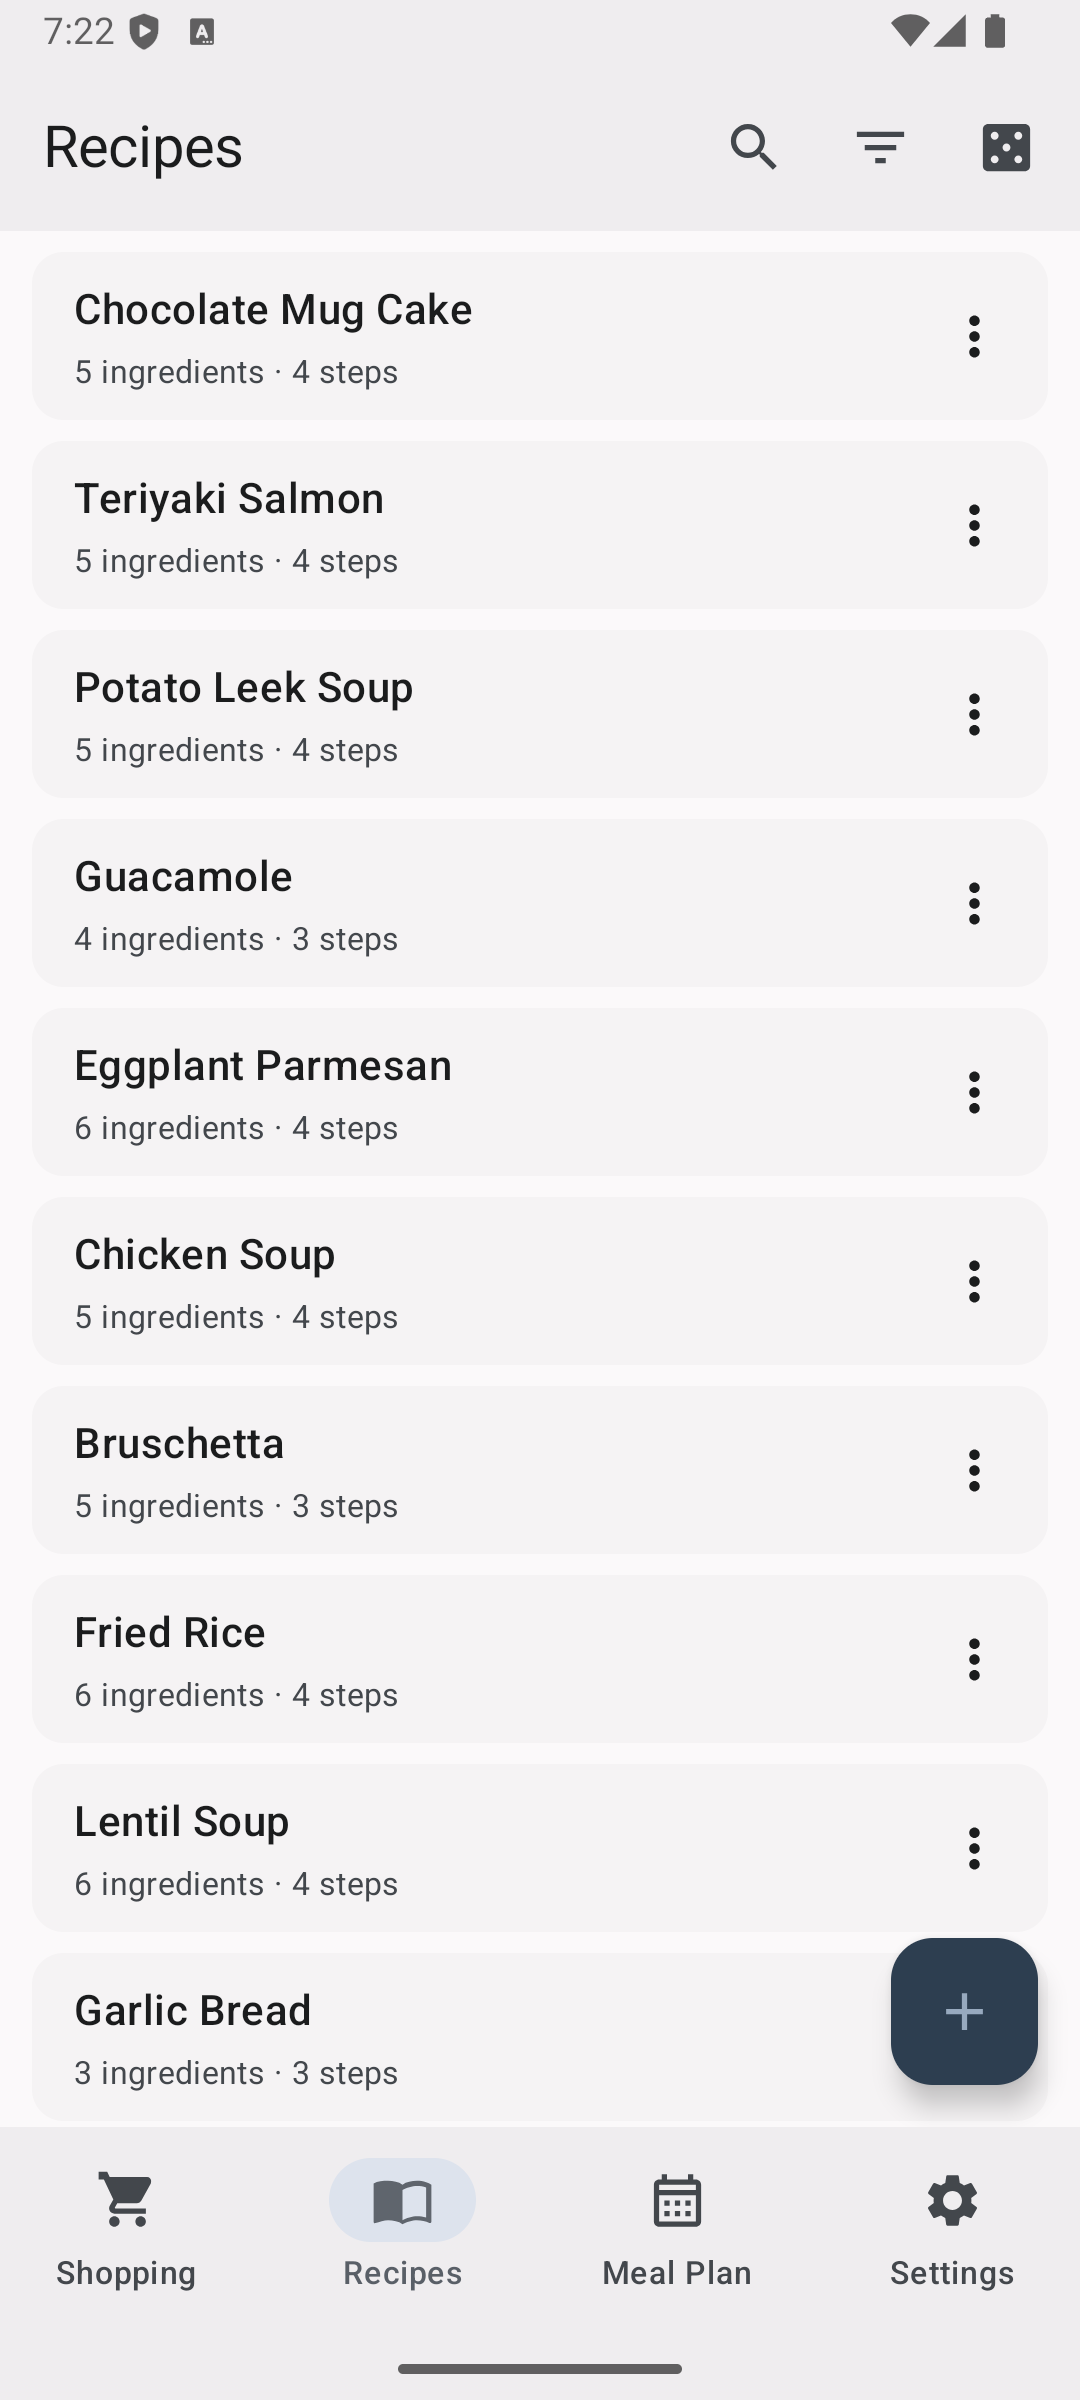
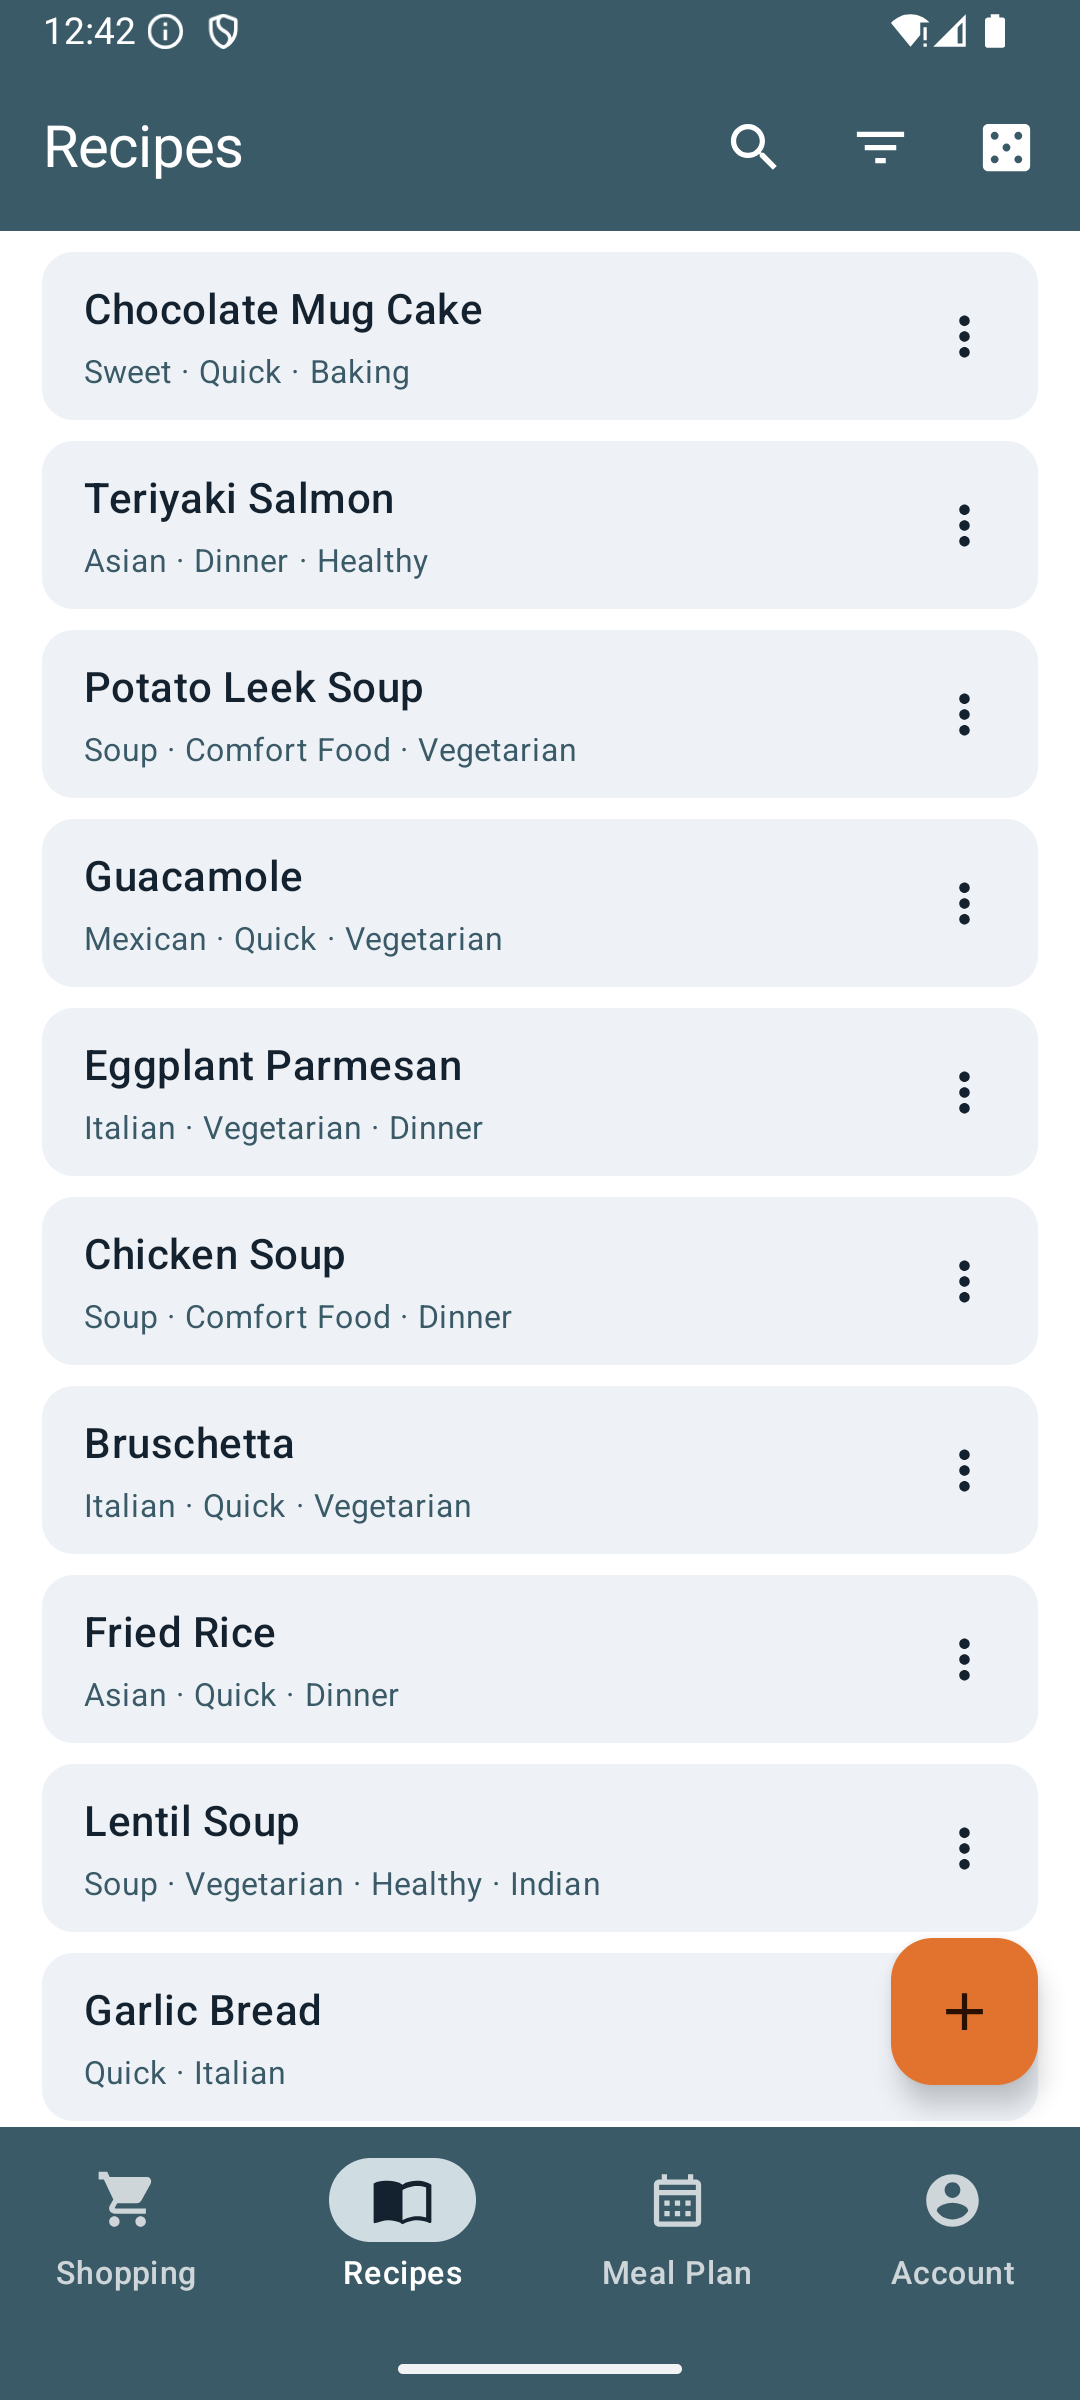
update images to match new design

diff --git a/README.md b/README.md
@@ -18,7 +18,7 @@ The Android app is on
   <img src="docs/images/recipe_list.png" alt="Recipe list" height="360"/>
   <img src="docs/images/recipe_detail.png" alt="Recipe detail" height="360"/>
   <img src="docs/images/mealplan.png" alt="Meal plan" height="360"/>
-  <img src="docs/images/settings.png" alt="Meal plan" height="360"/>
+  <img src="docs/images/account.png" alt="Account" height="360"/>
 </p>
 
 See the [FAQ & Feature Guide](docs/faq.md) for usage tips and common workflows.
